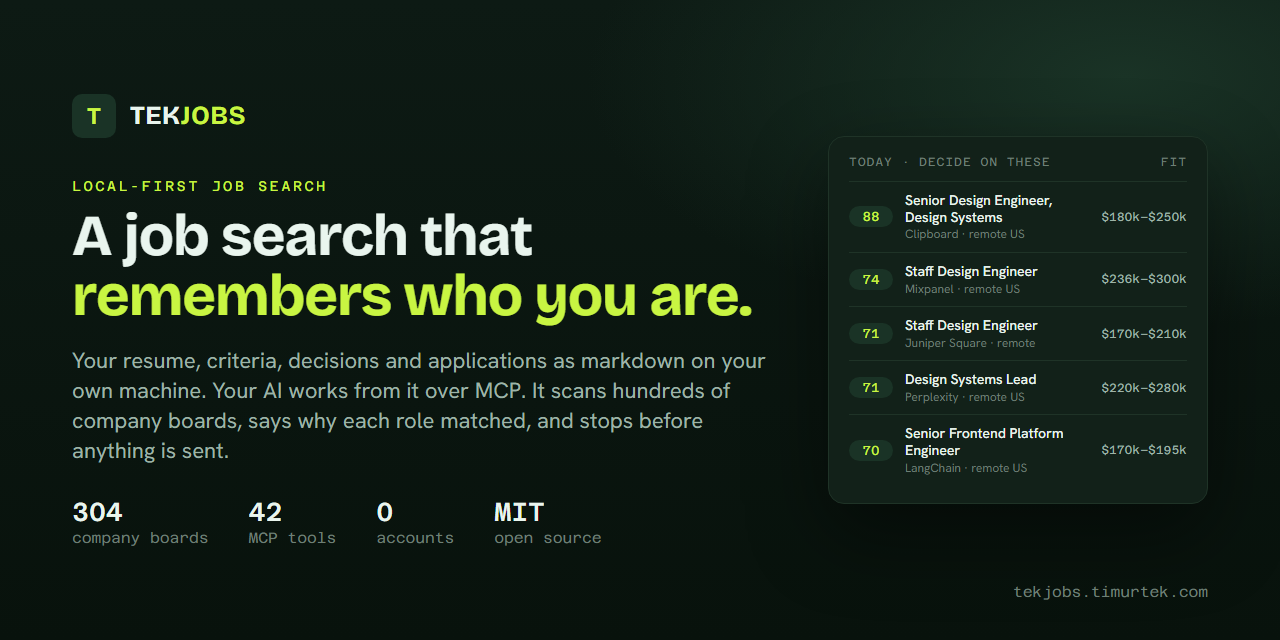
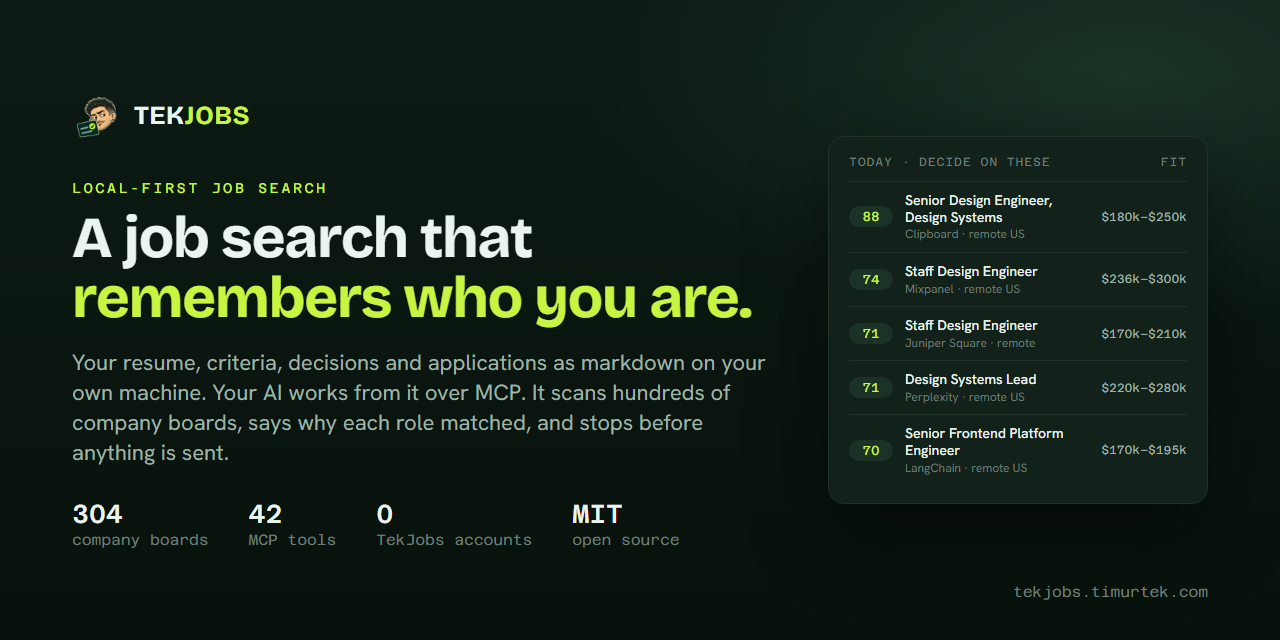
feat(brand): the character is the mark everywhere, and the copy says exactly what is free
The second marketing QA pass. The character that already led the site's nav
now leads the app's sidebar, the app's favicon, the social card and the top
of the README, so the site, the app, npm and GitHub share one mark; the lime
T stays as the secondary monogram. Wording tightened where it was too
absolute: the company-board scan needs no API key (the two optional feeds
bring their own), "TekJobs accounts: 0" rather than "accounts", and "no
separate model API key, no per-call AI billing" in place of "nothing
metered". The Decide step no longer stumbles over the feature name. The hero
heading carries its full sentence as a label so screen readers do not join
the two lines, the demo has a transcript under it, and Post a job in the nav
is a quieter button than Install.

diff --git a/site/src/content.ts b/site/src/content.ts
@@ -35,7 +35,7 @@ export const HERO = {
     ["Company boards", `${COUNTS.boards}`],
     ["Postings a run", "25k"],
     ["MCP tools", `${COUNTS.tools}`],
-    ["Accounts", "0"],
+    ["TekJobs accounts", "0"],
   ] as const,
 };
 
@@ -61,7 +61,7 @@ export const POSTING = {
 export const STEPS = [
   {
     title: "Scan",
-    body: `Every morning: the ${COUNTS.boards} company boards in the starter registry (Greenhouse, Lever, Ashby, Workday and the rest), the Google and Apple career pages, a dozen aggregator feeds, and any boards you add. Tens of thousands of postings a run, deduplicated. All public, all key-free.`,
+    body: `Every morning: the ${COUNTS.boards} company boards in the starter registry (Greenhouse, Lever, Ashby, Workday and the rest), the Google and Apple career pages, a dozen aggregator feeds, and any boards you add. Tens of thousands of postings a run, deduplicated. All public; the company-board scan needs no API key, and the two optional feeds that do (Adzuna, USAJOBS) bring their own free ones.`,
   },
   {
     title: "Score",
@@ -73,7 +73,7 @@ export const STEPS = [
   },
   {
     title: "Decide",
-    body: "Today shows the few worth a decision and what is about to close. Shortlist or pass, with a reason. Mail says reads your inbox for confirmations, rejections and interviews and asks you to confirm each one.",
+    body: "Today shows the few worth a decision and what is about to close. Shortlist or pass, with a reason. The mail pass reads your inbox for confirmations, rejections and interview invitations, then asks you to confirm each change before a note moves.",
   },
   {
     title: "Apply",
@@ -109,7 +109,7 @@ export const BOUNDARY = [
   { title: "It never sends mail.", body: "The mail check runs with only Gmail's read tools allowed and every write tool denied by name. The model extracts; matching and every change to a note is ordinary code, and nothing changes until you confirm." },
   {
     title: "Your files stay with you.",
-    body: "The scan runs on your machine, the notes live in your folder, and there is no TekJobs account or server holding a copy. What does leave: the requests to public job boards, and whatever context you choose to send to the AI provider you connect, which processes it under its own terms. No telemetry, no key, nothing sent on your behalf.",
+    body: "The scan runs on your machine, the notes live in your folder, and there is no TekJobs account or server holding a copy. What does leave: the requests to public job boards, and whatever context you choose to send to the AI provider you connect, which processes it under its own terms. No telemetry, no separate model API key, nothing sent on your behalf.",
   },
 ];
 
@@ -118,13 +118,13 @@ export const PROOF = [
   { figure: `${COUNTS.boards}`, title: "company boards", body: "In the starter registry every new profile folder begins with: eleven board platforms plus the Atlassian, GitHub, Spotify and Amazon career APIs and the Google and Apple pages. Add your own; the author's vault watches 356." },
   { figure: "25k", title: "postings a run", body: "The author's vault, 22 September 2026: fetched, deduplicated across sources, scored, and cut to the ones that clear the bar. About a minute on a laptop." },
   { figure: `${COUNTS.tools}`, title: "MCP tools", body: "Claude Code, Codex, Cursor or Claude Desktop can run the whole search over the same notes: find, move, draft, add boards, start scans, read the mailbox." },
-  { figure: "0", title: "accounts", body: "No sign-up, no server, no key. A folder of markdown and a scheduled task." },
+  { figure: "0", title: "TekJobs accounts", body: "No TekJobs account, no hosted search database, no separate model API key. A folder of markdown, a scheduled task, and the AI client you already have." },
 ];
 
 export const REQUIREMENTS = [
   ["Node 20 or newer", "One command installs it. The scan has one dependency, for reading PDF resumes."],
   ["A folder for your profile", "Plain markdown. Obsidian is the nicest way to read it, and not required."],
-  ["An AI client that speaks MCP, signed in", "Claude Code, Codex, Cursor or Claude Desktop. It runs the interview and, over MCP, the search. No API key, nothing metered. The setup for each is one page in the docs."],
+  ["An AI client that speaks MCP, signed in", "Claude Code, Codex, Cursor or Claude Desktop. It runs the interview and, over MCP, the search. No separate model API key: TekJobs adds no per-call AI billing, and usage follows the client you already have. The setup for each is one page in the docs."],
   ["Claude Code with its Gmail connector, for mail", "Optional, and the one thing that needs Claude Code specifically. Check mail is boxed to Gmail's three read tools."],
 ] as const;
 
@@ -147,6 +147,13 @@ export const DEMO = {
   src: "/demo/tekjobs-demo.mp4",
   poster: "/demo/tekjobs-demo-poster.png",
   alt: "TekJobs demo: the init command, the onboarding interview, the first scan, and the Today page with seven matches to decide on",
+  transcript: [
+    "Install. In a terminal: npx @timurtekb/tekjobs init ~/Obsidian/JobSearch --resume ~/Downloads/resume.pdf. The output names the profile folder, the four starter notes it created, the resume it imported, and the onboarding steps still open. Then: claude mcp add tekjobs -- tekjobs mcp, which connects the server to Claude Code.",
+    "Interview. In Claude Code: \"Use the tekjobs MCP server. Call onboarding_status, then onboarding_materials, and follow its script.\" The model reads the resume and asks eight questions in one message: target titles, seniority, work mode, pay floor and stretch, keywords and exclusions, company stage, links, earliest start. The answers go back in one message; it writes the profile and the criteria and starts a dry scan.",
+    "Scan. In the terminal: tekjobs scan. 304 boards in about two minutes, then the top fifteen still open with their scores, companies, titles and locations.",
+    "Today. The app's Today page: seven matches to decide on, best fit first, each with company, role, pay band and a Shortlist or Pass button. Then the Jobs page with one note open: every point it scored, written down as a reason.",
+    "Closing card: A job search that remembers who you are. Your notes, your criteria, your AI. Nothing is ever submitted for you.",
+  ],
   note: "Nothing in it is staged: the terminal output, the interview transcript and the screenshots are from the same run, and only the folder path was shortened. The companies on the Today page are real postings found that morning.",
 };
 

diff --git a/site/src/sections/Hero.tsx b/site/src/sections/Hero.tsx
@@ -10,7 +10,9 @@ export function Hero() {
         <div className="hero__grid">
           <div className="hero__copy">
             <span className="eyebrow">{HERO.eyebrow}</span>
-            <h1 className="hero__title">
+            {/* The accent span is styled as its own line, and some screen readers join adjacent inline boxes without a
+                space; the label carries the whole sentence so it is read as one. */}
+            <h1 className="hero__title" aria-label={`${HERO.title} ${HERO.titleEm}`}>
               {HERO.title} <em>{HERO.titleEm}</em>
             </h1>
             <p className="hero__consequence">{HERO.consequence}</p>

diff --git a/app/index.html b/app/index.html
@@ -5,7 +5,8 @@
     <meta name="viewport" content="width=device-width, initial-scale=1.0" />
     <title>TekJobs</title>
     <meta name="theme-color" content="#0d1a14" />
-    <link rel="icon" href="/favicon.svg" type="image/svg+xml" />
+    <link rel="icon" href="/brand/tekjobs-avatar-192.png" type="image/png" sizes="192x192" />
+    <link rel="apple-touch-icon" href="/brand/tekjobs-avatar-192.png" />
     <link rel="stylesheet" href="https://fonts.googleapis.com/css2?family=Bricolage+Grotesque:wght@500;600&family=Hanken+Grotesk:wght@400;500;600&family=Azeret+Mono:wght@400;500&display=swap" data-zengin="fonts" />
   </head>
   <body>

diff --git a/site/src/site.css b/site/src/site.css
@@ -596,6 +596,28 @@ body {
   font-size: var(--text-sm);
 }
 
+.demo__transcript {
+  color: var(--color-text-muted);
+  font-size: var(--text-sm);
+}
+
+.demo__transcript summary {
+  cursor: pointer;
+  font-family: var(--font-mono);
+  font-size: var(--text-xs);
+  letter-spacing: var(--tracking-wider);
+  text-transform: uppercase;
+  color: var(--color-text-subtle);
+}
+
+.demo__transcript ol {
+  margin: var(--spacing-3) 0 0;
+  padding-inline-start: var(--spacing-5);
+  display: grid;
+  gap: var(--spacing-2);
+  max-width: 72ch;
+}
+
 .step p,
 .cell__body {
   color: var(--color-text-muted);

diff --git a/app/src/brand.ts b/app/src/brand.ts
@@ -1,5 +1,5 @@
-/** The product's name and mark. Import it wherever the product names itself. The mark is the favicon glyph: a lime T on the system's surface. */
+/** The product's name and mark. Import it wherever the product names itself. The mark is the illustrated character, the same one on the site and the npm page; the lime T (favicon.svg) stays as the secondary monogram, used where a badge needs a glyph. */
 export const brand = {
   name: "TekJobs",
-  logo: "/favicon.svg",
+  logo: "/brand/tekjobs-avatar-192.png",
 } as const;

diff --git a/site/src/sections/Nav.tsx b/site/src/sections/Nav.tsx
@@ -40,7 +40,7 @@ export function Nav({ theme, onToggleTheme }: { theme: "light" | "dark"; onToggl
           <Button className="nav__github" asChild variant="ghost" size="sm">
             <a href={REPO} {...EXTERNAL}>GitHub</a>
           </Button>
-          <Button className="nav__post" asChild tone="primary" size="sm">
+          <Button className="nav__post" asChild variant="soft" size="sm">
             <a href="/post-a-job">Post a job</a>
           </Button>
           <AccountMenu />

diff --git a/site/src/sections/Demo.tsx b/site/src/sections/Demo.tsx
@@ -19,6 +19,14 @@ export function Demo() {
             </video>
           </div>
           <p className="demo__note">{DEMO.note}</p>
+          <details className="demo__transcript">
+            <summary>Transcript</summary>
+            <ol>
+              {DEMO.transcript.map((line) => (
+                <li key={line.slice(0, 24)}>{line}</li>
+              ))}
+            </ol>
+          </details>
         </div>
       </div>
     </section>

diff --git a/README.md b/README.md
@@ -1,5 +1,7 @@
 # TekJobs
 
+<img src="site/public/brand/tekjobs-avatar-192.png" width="72" height="72" alt="The TekJobs character" align="left" />
+
 [![npm](https://img.shields.io/npm/v/%40timurtekb%2Ftekjobs?label=npm)](https://www.npmjs.com/package/@timurtekb/tekjobs)
 [![release](https://img.shields.io/github/v/release/Timurtek/tekjobs?label=release)](https://github.com/Timurtek/tekjobs/releases)
 [![release workflow](https://github.com/Timurtek/tekjobs/actions/workflows/release.yml/badge.svg)](https://github.com/Timurtek/tekjobs/actions/workflows/release.yml)
@@ -27,7 +29,7 @@ It does not fit if you want a hosted service with nothing to install (TekJobs is
 ## What it does
 
 - **A profile folder** (default `~/.tekjobs/profile`): your profile, your resume as text, the scoring criteria, the board watchlist, one note per matched job, your application history, and scan logs. Plain markdown, readable in Obsidian or anything else.
-- **A daily scan** over Greenhouse, Lever, Ashby, Workday, Rippling, SmartRecruiters, Workable, BambooHR, Breezy, Personio, Teamtailor and Eightfold boards, the Atlassian, GitHub, Spotify and Amazon career APIs, the Google and Apple career pages (keyword-searched; they have no API), and eleven aggregator feeds including Wellfound's and Built In's remote listing pages. All public, all key-free. Two optional feeds need a free key: Adzuna, which reaches listings that never make it to a company board, and USAJOBS, which is every federal posting in the United States. Job alert emails saved into `Inbox/` are read too, which is how LinkedIn and Indeed listings get in without anything contacting those sites. Tens of thousands of postings a run, deduplicated, scored with every point written down as a reason, and cut to the ones that fit you.
+- **A daily scan** over Greenhouse, Lever, Ashby, Workday, Rippling, SmartRecruiters, Workable, BambooHR, Breezy, Personio, Teamtailor and Eightfold boards, the Atlassian, GitHub, Spotify and Amazon career APIs, the Google and Apple career pages (keyword-searched; they have no API), and eleven aggregator feeds including Wellfound's and Built In's remote listing pages. All public; the company-board scan needs no API key. Two optional feeds need a free key of their own: Adzuna, which reaches listings that never make it to a company board, and USAJOBS, which is every federal posting in the United States. Job alert emails saved into `Inbox/` are read too, which is how LinkedIn and Indeed listings get in without anything contacting those sites. Tens of thousands of postings a run, deduplicated, scored with every point written down as a reason, and cut to the ones that fit you.
 - **An app** (Zengin UI): a Today queue, a filterable jobs table with a detail sheet, a drag-and-drop pipeline from reviewing to offer, a Sources page with each board's health and a retry for the failed ones, a criteria editor with a live preview of what a change would do, scan history with a run button, the profile pages, and the agent setup page.
 - **Application material** written from your resume of record and checked against it: a tailored resume, a cover letter in your voice, and a copy panel for the answers forms keep asking for. Nothing is ever submitted; you review and click.
 - **An MCP server** with 42 tools, so Claude Code, Codex, Cursor or Claude Desktop can run the whole search: onboard you, find matches, move them through the pipeline, pull your profile and a posting together to tailor an application, save the draft into the note, add boards, start scans, read the mailbox.
@@ -88,7 +90,7 @@ Two kinds of request do leave: the scan's reads of public job boards, and whatev
 
 - **Node 20 or newer.** The scan has one dependency (PDF reading); the app ships built.
 - **A folder for your profile.** Plain markdown. Obsidian is the nicest way to read it, and not required.
-- **An AI client that speaks MCP, signed in on this machine.** Claude Code by default; Codex, Cursor and Claude Desktop work the same way. The interview and everything an agent does over MCP run there. The app's "Write cover letter" and "Tailor resume" buttons run a CLI with the prompt as an argument and read its output; the default is `claude -p --output-format text`, and another command goes under `"llm"` in `~/.tekjobs/config.json` or on the Settings page. No API key, nothing metered.
+- **An AI client that speaks MCP, signed in on this machine.** Claude Code by default; Codex, Cursor and Claude Desktop work the same way. The interview and everything an agent does over MCP run there. The app's "Write cover letter" and "Tailor resume" buttons run a CLI with the prompt as an argument and read its output; the default is `claude -p --output-format text`, and another command goes under `"llm"` in `~/.tekjobs/config.json` or on the Settings page. No separate model API key: TekJobs adds no per-call AI billing, and usage follows the client you already have.
 - **"Check mail" needs Claude Code specifically**, with its Gmail connector enabled. The run allows exactly three Gmail read tools by name and denies every write and shell tool, which is what makes it safe to run unattended; another CLI would need a Gmail MCP with matching tool names. Everything else works without it.
 - Optional: free Adzuna and USAJOBS keys for those two feeds, and `"contact"` in `~/.tekjobs/config.json` so the user agent on scan requests names a way to reach you.
 

diff --git a/site/content/docs/getting-started.md b/site/content/docs/getting-started.md
@@ -8,7 +8,7 @@ summary: Install, import a resume, be interviewed, and let the morning task take
 
 - **Node 20 or newer.** One command installs TekJobs; the scan has one dependency (PDF reading).
 - **A folder for your profile.** Plain markdown. Obsidian is the nicest way to read it, and not required.
-- **An AI client that speaks MCP, signed in on this machine.** Claude Code by default; Codex, Cursor and Claude Desktop work the same way, and [Connect your AI client](/docs/ai-clients) has the exact lines for each. The interview and everything over MCP run there. The app's cover-letter and tailored-resume buttons run a CLI with the prompt as an argument; the default is Claude Code's `claude -p`, and another command goes in Settings. No API key, nothing metered.
+- **An AI client that speaks MCP, signed in on this machine.** Claude Code by default; Codex, Cursor and Claude Desktop work the same way, and [Connect your AI client](/docs/ai-clients) has the exact lines for each. The interview and everything over MCP run there. The app's cover-letter and tailored-resume buttons run a CLI with the prompt as an argument; the default is Claude Code's `claude -p`, and another command goes in Settings. No separate model API key: TekJobs adds no per-call AI billing, and usage follows the client you already have.
 - **Check mail needs Claude Code specifically**, with its Gmail connector enabled: the run allows three Gmail read tools by name and denies everything else, which is what makes it safe to run unattended. Optional; everything else works without it.
 - Windows, macOS or Linux. The morning task is set up for each by `tekjobs schedule`. Git only if you clone to change the code.
 

diff --git a/site/content/docs/ai-clients.md b/site/content/docs/ai-clients.md
@@ -4,7 +4,7 @@ order: 1.5
 summary: One command, tekjobs mcp, and the exact lines for Claude Code, Codex, Cursor and Claude Desktop. ChatGPT's web app is the one that cannot.
 ---
 
-TekJobs exposes its tools through a local MCP server, `tekjobs mcp`, speaking JSON-RPC over stdio. Every client below runs that command and talks to it; none of them needs an API key, and nothing is metered. The server finds your profile folder the same way the CLI does: `TEKJOBS_PROFILE` if set, else `~/.tekjobs/config.json` (which `tekjobs init` wrote), so it does not matter which folder your client is opened in.
+TekJobs exposes its tools through a local MCP server, `tekjobs mcp`, speaking JSON-RPC over stdio. Every client below runs that command and talks to it. None of them needs a separate model API key: TekJobs adds no per-call AI billing, and usage follows the client you already have. The server finds your profile folder the same way the CLI does: `TEKJOBS_PROFILE` if set, else `~/.tekjobs/config.json` (which `tekjobs init` wrote), so it does not matter which folder your client is opened in.
 
 Install the command first, and check it answers:
 

diff --git a/site/content/docs/daily-scan.md b/site/content/docs/daily-scan.md
@@ -1,7 +1,7 @@
 ---
 title: The daily scan
 order: 4
-summary: Hundreds of boards, tens of thousands of postings, a minute, no keys.
+summary: Hundreds of boards, tens of thousands of postings, a minute, no API key for the company boards.
 ---
 
 ## Sources
